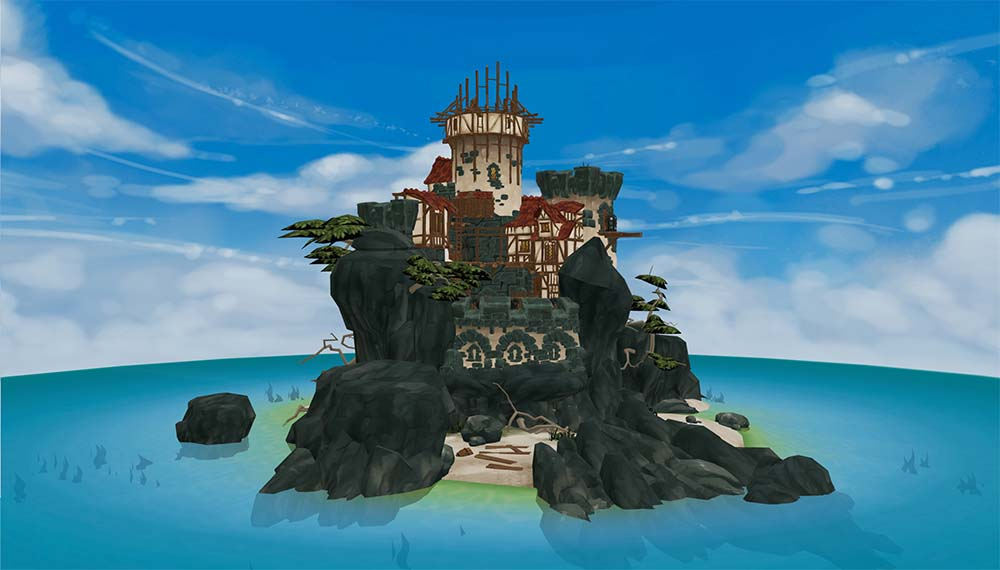
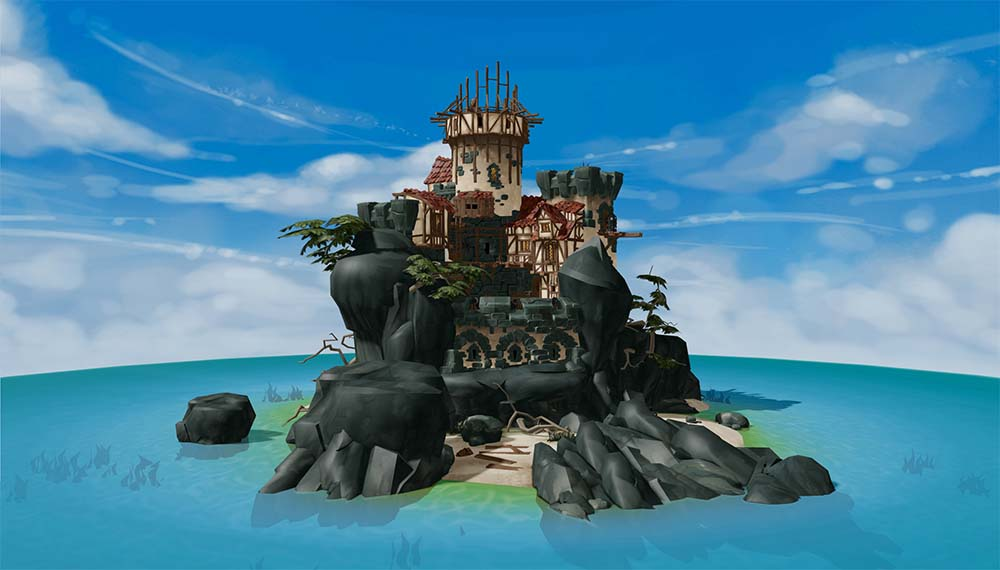
Updated placeholder image

diff --git a/app/ui/content-blocks/hero-3d-block.tsx b/app/ui/content-blocks/hero-3d-block.tsx
@@ -18,8 +18,7 @@ export function Hero3dBlock() {
     <div className="center-child-content mt-5 lg:mt-12">
       <div className="common-content-w common-content-p h-96 lg:h-[41rem]">
         
-        <div className="h-full w-full ">
-        {/* bg-[url('/scenes/island/placeholder.jpg')] bg-cover bg-center */}
+        <div className="h-full w-full bg-[url('/scenes/island/placeholder.jpg')] bg-cover bg-center">
           <Suspense fallback={<InteractiveSceneLoader/>}>
             <InteractiveScene/>
           </Suspense>
@@ -34,8 +33,8 @@ function InteractiveScene() {
   // const { scene } = useLoader(GLTFLoader, '/scenes/island/scene.gltf');
   const { scene } = useGLTF('/scenes/island/scene.glb');
 
-  scene.castShadow = true;
-  scene.receiveShadow = true;
+  // REVIEW: An attempt to get rid fo the "Failed to parse URL" error
+  // const { scene } = useGLTF(process.env.NEXT_PUBLIC_URL + '/scenes/island/scene.glb');
 
   scene.traverse((object) => {
     if(object instanceof THREE.Mesh && object.isMesh) {
@@ -61,9 +60,7 @@ function InteractiveScene() {
 
   // NOTE: Increasing the render depth could introduce artifacts. Consider if model should be scaled down instead.
   const camera = new THREE.PerspectiveCamera(40, window.innerWidth/window.innerHeight, 0.1, 5000);
-
   
-
   return (
     <Canvas
       camera = {camera}
